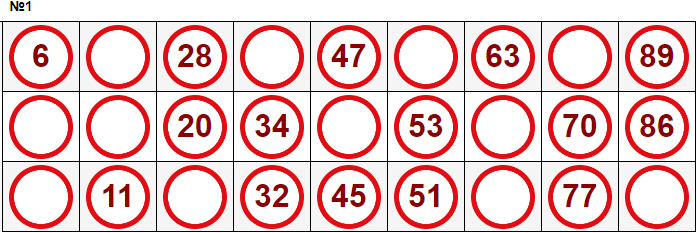
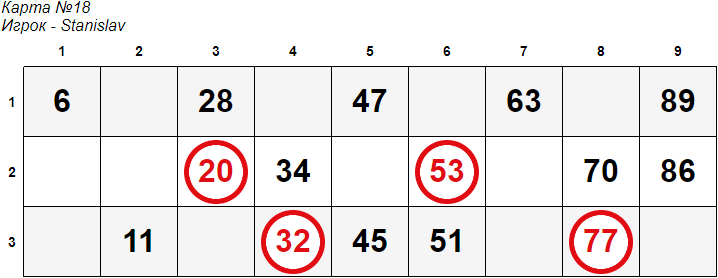
CSS barrels were successfully implemented, header underlining had a workaround

diff --git a/main.py b/main.py
@@ -1,35 +1,77 @@
 from pandas import DataFrame
+from pandas.io.formats.style import Styler
 from dataframe_image import export
-from PIL import Image
 import os
 
 
+CARD_DATA = [
+    ["6", "", "28", "", "47", "", "63", "", "89"],
+    ["", "", "20", "34", "", "53", "", "70", "86"],
+    ["", "11", "", "32", "45", "51", "", "77", ""]
+]
+BARREL_DATA = [
+    [False, False, False, False, False, False, False, False, False],
+    [False, False, True, False, False, True, False, False, False],
+    [False, False, False, True, False, False, False, True, False]
+]
+BARREL_IMG_PATH = os.path.join(
+        os.path.dirname(os.path.realpath(__file__)), "barrel.png"
+).replace("\\", "/")
+
+RED = '#E20D13'
+SHIFT_I = 1
+SHIFT_J = 2
+PLAYER = 'Stanislav'
+CARD_NUM = 18
+
+
 def main():
-    card_data = [
-        ["6", "", "28", "", "47", "", "63", "", "89"],
-        ["", "", "20", "34", "", "53", "", "70", "86"],
-        ["", "11", "", "32", "45", "51", "", "77", ""]
-    ]
-    columns = ["№1", "", "", "", "", "", "", "", ""]
-    df = DataFrame(card_data, columns=columns, index=["", "", ""])
-    pic_path = os.path.join(
-        os.path.dirname(os.path.realpath(__file__)), "circle.png"
-    ).replace("\\", "/")
-    df_styled = df.style.set_table_styles([
+    columns = ["1", "2", "3", "4", "5", "6", "7", "8", "9"]
+    df = DataFrame(CARD_DATA, columns=columns, index=["1", "2", "3"])
+
+    table_styles = get_table_styles()
+    df_styled = df.style.set_table_styles(table_styles)
+    df_styled.pipe(set_caption)
+
+    export(df_styled, "df_styled.png")
+
+
+def get_table_styles() -> list[dict]:
+    t_styles = [
         {
-            'selector': 'td',
-            'props': [
-                ('font-size', '24pt'), ('font-weight', 'bold'), ('border-style', 'solid'), ('border-width', '1px'),
-                ('text-align', 'center'), ('background-image', f'url("{pic_path}")'), ('width', '44px'),
-                ('background-repeat', 'no-repeat'), ('background-position', 'center'), ('background-size', '64px 64px'),
-                ('color', '#8B0000'), ('border-color', 'black')
+            'selector': 'th', 'props': 'text-align: center; background-color: white;'
+        },
+        {
+            'selector': 'th:nth-child(1)', 'props': 'border-top: 1px solid white;'
+        },
+        {
+            'selector': 'td', 'props': [
+                ('font-size', '24pt'), ('font-weight', 'bold'), ('border', '1px solid black'),
+                ('text-align', 'center'), ('width', '44px'), ('border-color', 'black')
+            ]
+        },
+        {
+            'selector': 'caption', 'props': [
+                ('text-align', 'left'), ('font-size', '12pt'), ('font-weight', 'normal'), ('font-style', 'italic')
             ]
         }
-    ])
-    export(df_styled, "df_styled.png")
-    img = Image.open("df_styled.png")
-    w, h = img.size
-    img.crop((17, 0, w, h)).save("df_styled.png")
+    ]
+
+    # SET BARRELS
+    for i, row in enumerate(CARD_DATA):
+        for j, cell in enumerate(row):
+            props = [
+                ('background-repeat', 'no-repeat'), ('background-position', 'center'), ('background-size', '64px 64px'),
+                ('background-image', f'url("{BARREL_IMG_PATH}")'), ('color', RED)
+            ] if (CARD_DATA[i][j].isdigit() and BARREL_DATA[i][j] is True) else []
+
+            t_styles.append({'selector': f'tr:nth-child({i + SHIFT_I}) td:nth-child({j + SHIFT_J})', 'props': props})
+
+    return t_styles
+
+
+def set_caption(styler: Styler):
+    styler.set_caption(f'Карта №{CARD_NUM}<br>Игрок - {PLAYER}')
 
 
 if __name__ == "__main__":
